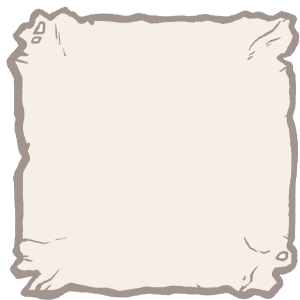
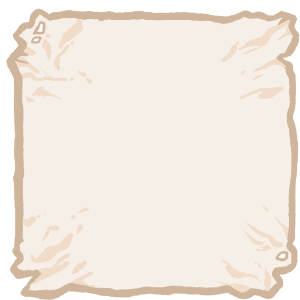
paper borders fixed

diff --git a/css/custom.min.css b/css/custom.min.css
@@ -1,2 +1,2 @@
-h1,h2,h3{font-family:"Bangers", cursive !important;letter-spacing:2px}.banner-txt h1{letter-spacing:4px}.icon{background-repeat:no-repeat;background-position:center;background-size:contain}.icon.pirate-kid{background-image:url(../images/icons/icon-baby.png)}.icon.treasure-chest{background-image:url(../images/icons/chest.png)}.icon.steering-wheel{background-image:url(../images/icons/steering-wheel-1.svg)}.icon.pirate-ship{background-image:url(../images/icons/pirate-ship-1.svg)}.icon.coin{background-image:url(../images/icons/coin-1.svg)}.icon.pirate-hook{background-image:url(../images/icons/pirate-hook-1.svg)}.icon.pirate-hook-2{background-image:url(../images/icons/pirate-hook-2.svg)}.icon.map{background-image:url(../images/icons/map-1.svg)}.icon.swords{background-image:url(../images/icons/swords-1.svg)}.icon.compass{background-image:url(../images/icons/compass-1.svg)}[class^="bg-"]{background:unset !important;position:relative;width:100%}.bg-light{background-color:#f0e5dd !important}.bg-darker{background-color:#ded5ce !important}.bg-wood--repeat{background-image:url(../images/background-images/bckgrnd-wood-repeat-01.jpg) !important;background-position:center !important;background-size:100% !important;background-repeat:repeat-y !important}.bg-wood--repeat .bg-top{position:absolute;width:100%;height:auto;top:-12px;left:0}.bg-wood--repeat .bg-bottom{position:absolute;width:100%;height:auto;bottom:-12px;left:0;-webkit-transform:rotate(180deg);transform:rotate(180deg);z-index:10}.boxed{position:relative;background-color:transparent !important;overflow:visible}.boxed.boxed--paper{border:1px solid transparent;-o-border-image:url(../images/borders/paper-border-01.png) 125 125 stretch;border-image:url(../images/borders/paper-border-01.png) 125 125 stretch;border-image-width:60px;border-image-outset:15;background-color:#f4eae5;-webkit-box-shadow:0 0 0 transparent;box-shadow:0 0 0 transparent;background-color:#f6efe8 !important}.boxed.boxed--paper::before{content:"";width:100%;height:100%;position:absolute;display:block;top:25px;left:-25px;background-image:url(../images/background-images/shadow-1.svg);background-repeat:no-repeat;background-position:bottom left;background-size:cover;opacity:.07;z-index:-10}body{background-color:#eee4dc}.navbar{padding:20px 0}.navbar::after{content:"";position:absolute;height:115px;width:100%;top:0;left:0;display:block;background-image:url(../images/background-images/bckgrnd-header-01.png);background-position:bottom;background-size:cover;background-repeat:no-repeat;z-index:-1}@media (min-width: 992px){.navbar::after{height:200px}}.navbar.navbar-light .navbar-nav .nav-link{color:#f0e5dd}.navbar.nav-bg{background-color:transparent !important;-webkit-box-shadow:none;box-shadow:none}.navbar.nav-bg .navbar-brand .navbar__logo{display:block}.navbar .navbar-brand{vertical-align:middle}.navbar .navbar-brand .navbar__logo{width:auto;height:46px;max-width:300px}.navbar .navbar-collapse.menu-main>ul{background-color:#1d2326}@media (min-width: 768px){.navbar .navbar-collapse.menu-main>ul{background-color:transparent}}section .section-title{margin:0 0 45px 0;text-align:center}section .header{width:100%;height:0}section .header::after{content:"";position:absolute;top:-95px;left:50%;-webkit-transform:translateX(-50%);transform:translateX(-50%);width:220px;height:220px;background-size:contain;background-position:center;background-repeat:no-repeat;opacity:.45;z-index:-11}section .header.header--dark::after{opacity:.65}section .header.header--style-1::after{background-image:url(../images/background-images/heading-bckgrnd-01.png)}section .header.header--style-2::after{background-image:url(../images/background-images/heading-bckgrnd-02.png)}section .header.header--style-3::after{background-image:url(../images/background-images/heading-bckgrnd-03.png)}section .header.header--style-4::after{background-image:url(../images/background-images/heading-bckgrnd-04.png)}#banner{background:url(../images/santarozahero.jpg);background-position:bottom;background-size:cover;background-repeat:no-repeat}@media (min-width: 992px){#banner{height:100vh}}#banner .banner__container{height:100%}#banner .backtotop .backtotop__icon{position:relative;display:block;width:60px;height:60px}#banner .backtotop .backtotop__icon::after{content:"";position:absolute;top:50%;left:50%;-webkit-transform:translateX(-50%) translateY(-50%);transform:translateX(-50%) translateY(-50%);width:100%;height:100%;max-height:46px;max-width:46px;background-image:url(../images/icons/compass-1.svg);background-position:center;background-repeat:no-repeat;background-size:contain}@media (min-width: 992px){#banner .banner__image-wrapper{margin-right:42px}}#banner .banner__image-wrapper .banner__image-holder{position:relative;width:100%;height:100%;min-height:320px}#banner .banner__image-wrapper .banner__image-holder::after{content:"";position:absolute;display:block;width:100%;height:100%;max-height:320px;top:50%;left:0;-webkit-transform:translateY(-50%);transform:translateY(-50%);background-image:url(../images/brand/logo_secondary.png);background-repeat:no-repeat;background-position:center;background-size:contain}@media (min-width: 992px){#banner .banner__image-wrapper .banner__image-holder::after{background-position:left}}#banner .banner-txt{text-align:center}@media (min-width: 992px){#banner .banner-txt{text-align:left}}#banner .banner-txt h1{color:#f0e5dd}#banner .banner-txt h3{padding-bottom:16px}#banner-2{position:relative;background-color:transparent !important;overflow:visible}#banner-2::after{content:"";position:absolute;top:-30px;left:0;width:280px;height:280px;background-image:url(../images/background-images/illustration-anchor-01.png);background-repeat:no-repeat;background-position:center;background-size:contain;z-index:20}@media (min-width: 992px){#banner-2::after{left:100px}}@media (min-width: 1680px){#banner-2::after{left:360px}}@media (min-width: 1200px){#banner-2 .banner-2__container{padding:25px 0;position:relative}#banner-2 .banner-2__container .hourglass-icon{display:block;position:relative;padding:25px;height:120px;width:120px}#banner-2 .banner-2__container .hourglass-icon::after{content:"";position:absolute;top:50%;left:50%;-webkit-transform:translateY(-50%) translateX(-50%);transform:translateY(-50%) translateX(-50%);width:100%;height:100%;background-image:url(../images/icons/hourglass-01.png);background-size:contain;background-repeat:no-repeat;background-position:center}#banner-2 .coun_time h2{color:#569984}#banner-2 .coun_time p{color:#1d2326}}#banner-2 .banner-2__aside-text{color:#1d2326;padding-top:55px}@media (min-width: 576px){#banner-2 .banner-2__aside-text{padding-top:12px}}@media (min-width: 768px){#banner-2 .banner-2__aside-text{padding-top:0}}#event .about-item span{width:70px;height:70px;top:10px;right:8px}#brand .brand__image-holder{width:100%;height:100%;overflow:hidden}#brand .brand__image-holder>img{height:auto;width:100%;-o-object-fit:cover;object-fit:cover}#schedule .schedule-pa{padding-top:25px}#schedule .scrollarea{overflow:visible !important;cursor:default !important;max-height:unset;-ms-touch-action:auto !important;touch-action:auto !important}#schedule .scrollarea .schedule-item h3::after{background-color:#569984;opacity:0.3}#schedule .scrollarea .schedule-item .timer{background-color:transparent}#about .about-img{height:100%}#about .about-img .main-img{height:100%;display:block}#about .about-img .main-img>img{-o-object-fit:cover;object-fit:cover;-o-object-position:center;object-position:center;height:100%}#counter{padding:100px 0 0px 0}@media (min-width: 992px){#counter{padding:100px 0 65px 0;position:relative}#counter::after{content:"";position:absolute;display:block;left:0;top:0;height:100%;width:500px;background-image:url(../images/background-images/illustration-bckgrnd-01.png);background-position:right;background-repeat:no-repeat;background-size:cover;z-index:-1;opacity:.4}#counter .count-item{background-color:rgba(255,255,255,0.65)}}#counter .counter-txt .icon{height:36px;width:36px;display:inline-block;margin-right:6px}#route-section{padding:90px 0}#route-section .route-section__item{position:relative}#route-section .route-section__connection{position:relative;width:100%;height:100px;overflow:visible}#route-section .route-section__connection::after{content:none;position:absolute;display:block;top:50%;left:50%;-webkit-transform:translateX(-50%) translateY(-50%);transform:translateX(-50%) translateY(-50%);width:100%;height:360px;background-image:url(../images/background-images/dotted-line-01.png);background-position:center;background-size:contain;background-repeat:no-repeat}@media (min-width: 992px){#route-section .route-section__connection::after{content:"";height:360px}}@media (min-width: 1200px){#route-section .route-section__connection::after{height:500px}}#organize{background-image:url(../images/custom-events-01-480.jpg)}@media (min-width: 768px){#organize{background-image:url(../images/custom-events-01-768.jpg)}}@media (min-width: 1200px){#organize{background-image:url(../images/custom-events-01-1024.jpg)}}@media (min-width: 1680px){#organize{background-image:url(../images/custom-events-01-1680.jpg)}}@media (min-width: 1920px){#organize{background-image:url(../images/custom-events-01-1920.jpg)}}#organize::after{opacity:.9;background-color:#1d2326}#price{position:relative;overflow:hidden}#price::before{content:"";position:absolute;top:-50px;left:-100px;width:100%;height:100%;background-image:url(../images/background-images/bckgrnd-map-sepia-01.jpg);background-position:left;background-repeat:no-repeat;background-size:contain;opacity:.15;-webkit-filter:grayscale(1);filter:grayscale(1)}#gallery{background-image:url(../images/video-bckgrnd-01.jpg)}#gallery::after{opacity:0.65;background-color:#1d2326}#gallery .gallery-heading h3::after{content:none}#footer{padding:36px 0;position:relative;background-color:transparent}#footer .footer__logo{width:100%;height:auto;max-width:250px}#footer .menu-a a{color:#f0e5dd}.venobox.vbox-item>i::before{padding-left:3px}.timer-main img{width:130px;height:130px}
+h1,h2,h3{font-family:"Bangers", cursive !important;letter-spacing:2px}.banner-txt h1{letter-spacing:4px}.icon{background-repeat:no-repeat;background-position:center;background-size:contain}.icon.pirate-kid{background-image:url(../images/icons/icon-baby.png)}.icon.treasure-chest{background-image:url(../images/icons/chest.png)}.icon.steering-wheel{background-image:url(../images/icons/steering-wheel-1.svg)}.icon.pirate-ship{background-image:url(../images/icons/pirate-ship-1.svg)}.icon.coin{background-image:url(../images/icons/coin-1.svg)}.icon.pirate-hook{background-image:url(../images/icons/pirate-hook-1.svg)}.icon.pirate-hook-2{background-image:url(../images/icons/pirate-hook-2.svg)}.icon.map{background-image:url(../images/icons/map-1.svg)}.icon.swords{background-image:url(../images/icons/swords-1.svg)}.icon.compass{background-image:url(../images/icons/compass-1.svg)}[class^="bg-"]{background:unset !important;position:relative;width:100%}.bg-light{background-color:#f0e5dd !important}.bg-darker{background-color:#ded5ce !important}.bg-wood--repeat{background-image:url(../images/background-images/bckgrnd-wood-repeat-01.jpg) !important;background-position:center !important;background-size:100% !important;background-repeat:repeat-y !important}.bg-wood--repeat .bg-top{position:absolute;width:100%;height:auto;top:-12px;left:0}.bg-wood--repeat .bg-bottom{position:absolute;width:100%;height:auto;bottom:-12px;left:0;-webkit-transform:rotate(180deg);transform:rotate(180deg);z-index:10}.boxed{position:relative;background-color:transparent !important;overflow:visible}.boxed.boxed--paper{border:1px solid transparent;-o-border-image:url(../images/borders/paper-border-01.png) 100 round;border-image:url(../images/borders/paper-border-01.png) 100 round;border-image-width:60px;border-image-outset:15;background-color:#f4eae5;-webkit-box-shadow:0 0 0 transparent;box-shadow:0 0 0 transparent;background-color:#f6efe8 !important}.boxed.boxed--paper::before{content:"";width:100%;height:100%;position:absolute;display:block;top:25px;left:-25px;background-image:url(../images/background-images/shadow-1.svg);background-repeat:no-repeat;background-position:bottom left;background-size:cover;opacity:.07;z-index:-10}body{background-color:#eee4dc}.navbar{padding:20px 0}.navbar::after{content:"";position:absolute;height:115px;width:100%;top:0;left:0;display:block;background-image:url(../images/background-images/bckgrnd-header-01.png);background-position:bottom;background-size:cover;background-repeat:no-repeat;z-index:-1}@media (min-width: 992px){.navbar::after{height:200px}}.navbar.navbar-light .navbar-nav .nav-link{color:#f0e5dd}.navbar.nav-bg{background-color:transparent !important;-webkit-box-shadow:none;box-shadow:none}.navbar.nav-bg .navbar-brand .navbar__logo{display:block}.navbar .navbar-brand{vertical-align:middle}.navbar .navbar-brand .navbar__logo{width:auto;height:46px;max-width:300px}.navbar .navbar-collapse.menu-main>ul{background-color:#1d2326}@media (min-width: 768px){.navbar .navbar-collapse.menu-main>ul{background-color:transparent}}section .section-title{margin:0 0 45px 0;text-align:center}section .header{width:100%;height:0}section .header::after{content:"";position:absolute;top:-95px;left:50%;-webkit-transform:translateX(-50%);transform:translateX(-50%);width:220px;height:220px;background-size:contain;background-position:center;background-repeat:no-repeat;opacity:.45;z-index:-11}section .header.header--dark::after{opacity:.65}section .header.header--style-1::after{background-image:url(../images/background-images/heading-bckgrnd-01.png)}section .header.header--style-2::after{background-image:url(../images/background-images/heading-bckgrnd-02.png)}section .header.header--style-3::after{background-image:url(../images/background-images/heading-bckgrnd-03.png)}section .header.header--style-4::after{background-image:url(../images/background-images/heading-bckgrnd-04.png)}#banner{background:url(../images/santarozahero.jpg);background-position:bottom;background-size:cover;background-repeat:no-repeat}@media (min-width: 992px){#banner{height:100vh}}#banner .banner__container{height:100%}#banner .backtotop .backtotop__icon{position:relative;display:block;width:60px;height:60px}#banner .backtotop .backtotop__icon::after{content:"";position:absolute;top:50%;left:50%;-webkit-transform:translateX(-50%) translateY(-50%);transform:translateX(-50%) translateY(-50%);width:100%;height:100%;max-height:46px;max-width:46px;background-image:url(../images/icons/compass-1.svg);background-position:center;background-repeat:no-repeat;background-size:contain}@media (min-width: 992px){#banner .banner__image-wrapper{margin-right:42px}}#banner .banner__image-wrapper .banner__image-holder{position:relative;width:100%;height:100%;min-height:320px}#banner .banner__image-wrapper .banner__image-holder::after{content:"";position:absolute;display:block;width:100%;height:100%;max-height:320px;top:50%;left:0;-webkit-transform:translateY(-50%);transform:translateY(-50%);background-image:url(../images/brand/logo_secondary.png);background-repeat:no-repeat;background-position:center;background-size:contain}@media (min-width: 992px){#banner .banner__image-wrapper .banner__image-holder::after{background-position:left}}#banner .banner-txt{text-align:center}@media (min-width: 992px){#banner .banner-txt{text-align:left}}#banner .banner-txt h1{color:#f0e5dd}#banner .banner-txt h3{padding-bottom:16px}#banner-2{position:relative;background-color:transparent !important;overflow:visible}#banner-2::after{content:"";position:absolute;top:-30px;left:0;width:280px;height:280px;background-image:url(../images/background-images/illustration-anchor-01.png);background-repeat:no-repeat;background-position:center;background-size:contain;z-index:20}@media (min-width: 992px){#banner-2::after{left:100px}}@media (min-width: 1680px){#banner-2::after{left:360px}}@media (min-width: 1200px){#banner-2 .banner-2__container{padding:25px 0;position:relative}#banner-2 .banner-2__container .hourglass-icon{display:block;position:relative;padding:25px;height:120px;width:120px}#banner-2 .banner-2__container .hourglass-icon::after{content:"";position:absolute;top:50%;left:50%;-webkit-transform:translateY(-50%) translateX(-50%);transform:translateY(-50%) translateX(-50%);width:100%;height:100%;background-image:url(../images/icons/hourglass-01.png);background-size:contain;background-repeat:no-repeat;background-position:center}#banner-2 .coun_time h2{color:#569984}#banner-2 .coun_time p{color:#1d2326}}#banner-2 .banner-2__aside-text{color:#1d2326;padding-top:55px}@media (min-width: 576px){#banner-2 .banner-2__aside-text{padding-top:12px}}@media (min-width: 768px){#banner-2 .banner-2__aside-text{padding-top:0}}#event .about-item span{width:70px;height:70px;top:10px;right:8px}#brand .brand__image-holder{width:100%;height:100%;overflow:hidden}#brand .brand__image-holder>img{height:auto;width:100%;-o-object-fit:cover;object-fit:cover}#schedule .schedule-pa{padding-top:25px}#schedule .scrollarea{overflow:visible !important;cursor:default !important;max-height:unset;-ms-touch-action:auto !important;touch-action:auto !important}#schedule .scrollarea .schedule-item h3::after{background-color:#569984;opacity:0.3}#schedule .scrollarea .schedule-item .timer{background-color:transparent}#about .about-img{height:100%}#about .about-img .main-img{height:100%;display:block}#about .about-img .main-img>img{-o-object-fit:cover;object-fit:cover;-o-object-position:center;object-position:center;height:100%}#counter{padding:100px 0 0px 0}@media (min-width: 992px){#counter{padding:100px 0 65px 0;position:relative}#counter::after{content:"";position:absolute;display:block;left:0;top:0;height:100%;width:500px;background-image:url(../images/background-images/illustration-bckgrnd-01.png);background-position:right;background-repeat:no-repeat;background-size:cover;z-index:-1;opacity:.4}#counter .count-item{background-color:rgba(255,255,255,0.65)}}#counter .counter-txt .icon{height:36px;width:36px;display:inline-block;margin-right:6px}#route-section{padding:90px 0}#route-section .route-section__item{position:relative}#route-section .route-section__connection{position:relative;width:100%;height:100px;overflow:visible}#route-section .route-section__connection::after{content:none;position:absolute;display:block;top:50%;left:50%;-webkit-transform:translateX(-50%) translateY(-50%);transform:translateX(-50%) translateY(-50%);width:100%;height:360px;background-image:url(../images/background-images/dotted-line-01.png);background-position:center;background-size:contain;background-repeat:no-repeat}@media (min-width: 992px){#route-section .route-section__connection::after{content:"";height:360px}}@media (min-width: 1200px){#route-section .route-section__connection::after{height:500px}}#organize{background-image:url(../images/custom-events-01-480.jpg)}@media (min-width: 768px){#organize{background-image:url(../images/custom-events-01-768.jpg)}}@media (min-width: 1200px){#organize{background-image:url(../images/custom-events-01-1024.jpg)}}@media (min-width: 1680px){#organize{background-image:url(../images/custom-events-01-1680.jpg)}}@media (min-width: 1920px){#organize{background-image:url(../images/custom-events-01-1920.jpg)}}#organize::after{opacity:.9;background-color:#1d2326}#price{position:relative;overflow:hidden}#price::before{content:"";position:absolute;top:-50px;left:-100px;width:100%;height:100%;background-image:url(../images/background-images/bckgrnd-map-sepia-01.jpg);background-position:left;background-repeat:no-repeat;background-size:contain;opacity:.15;-webkit-filter:grayscale(1);filter:grayscale(1)}#gallery{background-image:url(../images/video-bckgrnd-01.jpg)}#gallery::after{opacity:0.65;background-color:#1d2326}#gallery .gallery-heading h3::after{content:none}#footer{padding:36px 0;position:relative;background-color:transparent}#footer .footer__logo{width:100%;height:auto;max-width:250px}#footer .menu-a a{color:#f0e5dd}.venobox.vbox-item>i::before{padding-left:3px}.timer-main img{width:130px;height:130px}
 /*# sourceMappingURL=custom.min.css.map */

diff --git a/css/custom.css b/css/custom.css
@@ -107,8 +107,8 @@ h3 {
 
 .boxed.boxed--paper {
   border: 1px solid transparent;
-  -o-border-image: url(../images/borders/paper-border-01.png) 125 125 stretch;
-     border-image: url(../images/borders/paper-border-01.png) 125 125 stretch;
+  -o-border-image: url(../images/borders/paper-border-01.png) 100 round;
+     border-image: url(../images/borders/paper-border-01.png) 100 round;
   border-image-width: 60px;
   border-image-outset: 15;
   background-color: #f4eae5;

diff --git a/scss/custom.scss b/scss/custom.scss
@@ -116,7 +116,7 @@ h3 {
 
         &.boxed--paper{
             border: 1px solid transparent;
-            border-image:url(../images/borders/paper-border-01.png) 125 125 stretch;
+            border-image:url(../images/borders/paper-border-01.png) 100 round;
             border-image-width: 60px;
             border-image-outset: 15;
             background-color: #f4eae5;
